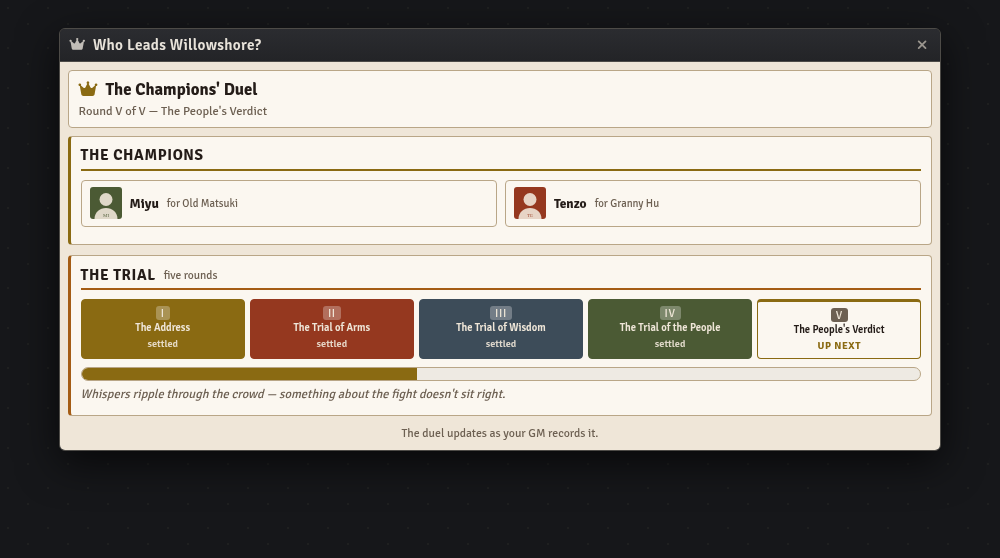
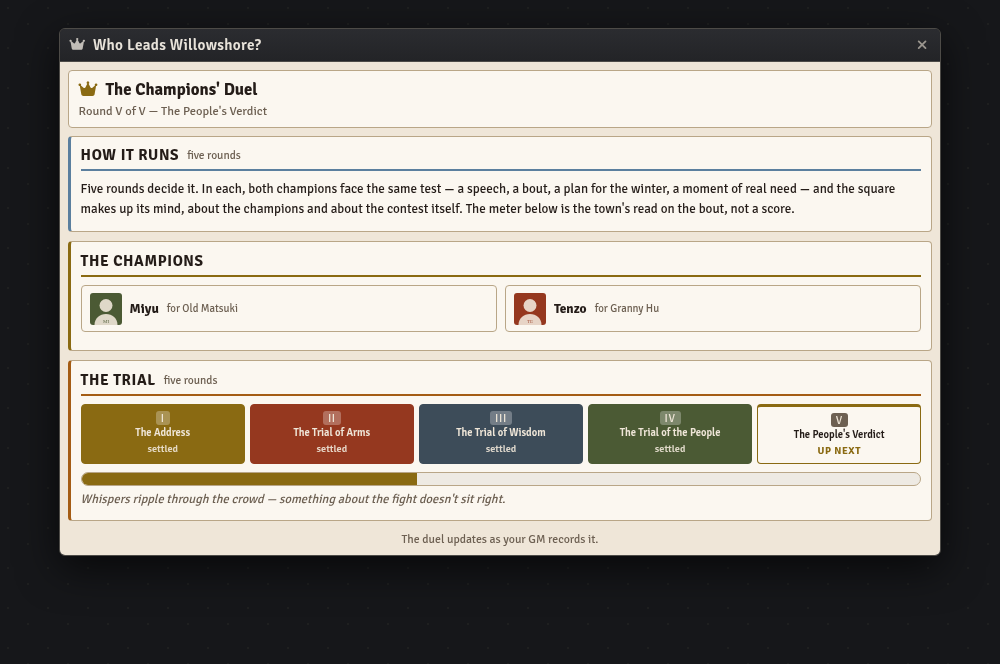
Who Leads Willowshore: spell out how a round actually runs
The round skills and the scoring came from different parts of the source
and read as two unrelated systems — worst in a thrown duel, where the
round's own skill and the sell are different rolls made by different
champions, and nothing said which one scores.

Both boards now open on a "how a round runs" panel. The GM's version
names who rolls what and maps each result to its delta (critical success
-1 Gorgeous through critical failure +2 Botched, with Blowout as a GM
call recorded in place of the sell's own result). The player's version
says the same in the crowd's voice, with a seat-specific "your part"
underneath: one roll of the round's skill in the Trial, or — for the
thrower — play the round out, then roll once to sell the loss, because
rolling to win is not their job.

Two leaks fixed along the way: the player roll card named Suspicion
outright, and the tally hint hardcoded Hu and Matsuki, so it read
backwards whenever the fix delivered to Hu.

Changed region(s): [[0.062, 0.0305, 0.961, 0.853]]

diff --git a/macros/season-of-ghosts/who-leads-willowshore-console.js b/macros/season-of-ghosts/who-leads-willowshore-console.js
@@ -86,6 +86,56 @@ const READALOUD = {
   crowd: "Give the crowd a voice — a roar, a gasp, a heckler (\"Songs won't man the walls!\"), a held breath before the bout — and visibly shift bodies toward whichever side is winning Favor. NPCs the party has helped should be in the crowd cheering. Let it breathe: this is a relationship and worldbuilding episode as much as a contest."
 };
 
+/* How a round actually runs. The two source documents give the round skills in
+   one place and the scoring in another, which reads as two unrelated systems —
+   especially in a thrown duel, where the round's own skill and the sell are
+   different rolls made by different champions. These spell the loop out once,
+   in the GM console and again (spoiler-free, seat-specific) on the player board.
+   The degree-of-success → Suspicion mapping is the natural reading of the
+   Worked Duel's five named deltas, not printed as a table in the document. */
+const HOWTO_GM = {
+  trial: [
+    ["Both champions roll.", "The round's listed skill, once each. A stand-in rolls about +9 in their strong field, +5 otherwise."],
+    ["Compare.", "Higher degree of success takes the round; on the same degree, higher total. Close enough to call it even is a tie."],
+    ["Record it below.", "Winner +2 Favor, +3 on a critical success, or +1 each on a tie — Round IV doubles all three. One button per round; clicking the lit one clears it."],
+    ["Round V.", "A closing word, not a contest. Roll only to break a tie in Favor: one opposed Diplomacy before the crowd."]
+  ],
+  thrown: [
+    ["{W} plays the round straight.", "The round's listed skill, rolled for real — {WE}'s side is not selling anything and does not roll to sell."],
+    ["{T} plays the part, then sells it.", "Describe the argument, the bout, the plan — then roll one Deception or Performance vs DC 18. That sell is the only roll that scores; {T} does not roll the round's own skill to try to win."],
+    ["Record the sell below.", "Critical success −1 Gorgeous · success +0 Clean · failure +1 Shaky · critical failure +2 Botched. One button per round."],
+    ["Blowout is a GM call, not a roll.", "If the round reads false because {W} looked too good rather than because the sell wobbled, record +1 Blowout in place of the sell's own result."],
+    ["Round V.", "The money shot — {T}'s last sell, with a bonus if Suspicion is low so far and a penalty if it's high."]
+  ]
+};
+
+/* The same loop in the crowd's voice, for the player board. No Favor number,
+   no Suspicion number, no band label — and the thrown duel's fix stays out of
+   the shared paragraph, since every player sees it. */
+const HOWTO_PLAYER = {
+  trial: {
+    crowd: "Five rounds decide it. In each, both champions face the same test — a speech, a bout, a plan for the winter, a moment of real need — and the town judges who did better. The crowd's favor swings a little each round, and whoever holds most of it after the fifth is acclaimed. The fourth round, the People, moves the crowd twice as far as any other.",
+    seat: [
+      "<b>One roll per round.</b> When your champion takes their turn at the test, roll the skill on the card below — that is your whole mechanical part of the round.",
+      "<b>III and IV are against a set DC</b>, printed on the button. <b>I and II are opposed</b> — you roll, the other champion rolls, and the better result takes the round, so no DC is shown.",
+      "<b>Round V is a closing word</b>, not a contest. You only roll if the town is dead split going into it."
+    ]
+  },
+  thrown: {
+    crowd: "Five rounds decide it. In each, both champions face the same test — a speech, a bout, a plan for the winter, a moment of real need — and the square makes up its mind, about the champions and about the contest itself. The meter below is the town's read on the bout, not a score.",
+    sell: [
+      "<b>Play the round as written</b> — argue, fight, offer your plan. Then roll <b>once</b>, from the card below, to make the loss look real: Deception or Performance against DC 18.",
+      "<b>That sell is the roll that counts.</b> Rolling the round's own skill to try to win is not your job this duel — in every round, the sell is what you roll.",
+      "<b>Beat the DC and the crowd buys it.</b> Miss and people start to talk; miss badly and they talk twice as loud. A critical success — a beautiful, agonizing near-miss — buys back doubt you have already earned.",
+      "<b>Round V is the fall itself</b>: one last sell, easier if the crowd has believed you so far, harder if it hasn't."
+    ],
+    straight: [
+      "<b>You play every round straight</b> — roll the skill on your card as though the outcome were still in doubt. III and IV are against a set DC; I and II are opposed, so no DC is shown.",
+      "<b>Round V has no roll for you.</b> The finale belongs to the other champion."
+    ]
+  }
+};
+
 const LEADUP = [
   { key: "courted", label: "Courted your elder to the Influence midpoint", effect: "+1 Favor to your side" },
   { key: "conceded", label: "7 Influence with the rival elder", effect: "they concede & step aside — end it without a duel" },
@@ -623,23 +673,24 @@ class WLRApp extends BaseApp {
     // Deception/Performance DC 18, the tally panel's own DC — through V's
     // money shot.
     const me = t.mySeat();
+    const myFaction = me ? (me.side === "north" ? ELDERS.north.faction : ELDERS.south.faction) : "";
+    const selling = !!me && !isTrial && me.side === t.throwerSide;
     const parseCheck = (c) => { const m = /^DC\s+(\d+)\s+(.+)$/.exec(String(c).trim()); return m ? { dc: Number(m[1]), skill: m[2] } : null; };
     const rollCard = (() => {
       if (!me || !next || finished) return "";
-      const faction = me.side === "north" ? ELDERS.north.faction : ELDERS.south.faction;
-      const selling = !isTrial && me.side === t.throwerSide;
+      const faction = myFaction;
       if (selling) {
         return `
         <div class="rollcard">
           <div class="rc-head">Round ${next.num} — ${esc(next.name)} <small>you fight for ${faction}</small></div>
-          <p class="rc-skills">Sell it — Deception or Performance</p>
+          <p class="rc-skills">Play the round as written, then roll <b>once</b> to sell the loss — Deception or Performance.</p>
           <div class="rc-btns">
             <button type="button" class="rollbtn" data-act="roll" data-k="${next.key}" data-skill="Deception" data-dc="18">
               <i class="fa-solid fa-dice-d20"></i> Roll Deception <b>DC 18</b></button>
             <button type="button" class="rollbtn" data-act="roll" data-k="${next.key}" data-skill="Performance" data-dc="18">
               <i class="fa-solid fa-dice-d20"></i> Roll Performance <b>DC 18</b></button>
           </div>
-          <p class="rc-note">${next.key === "r5" ? "The money shot — bonus if Suspicion is low, penalty if high." : "A clean sell keeps Suspicion down; a botch pushes it up."}</p>
+          <p class="rc-note">${next.key === "r5" ? "The fall itself — easier if the crowd has believed you so far, harder if it hasn't." : "Beat the DC and the crowd buys it; miss and people start to talk."}</p>
         </div>`;
       }
       // The thrown duel's non-thrower champion plays every round straight
@@ -663,12 +714,32 @@ class WLRApp extends BaseApp {
       </div>`;
     })();
 
+    // Prepended to the board: how the duel is actually run, in the crowd's
+    // voice, with the seated champion's own procedure spelled out underneath —
+    // which roll they make each round, and when. Drops away once it's decided.
+    const mySteps = !me ? null
+      : isTrial ? HOWTO_PLAYER.trial.seat
+      : selling ? HOWTO_PLAYER.thrown.sell
+      : HOWTO_PLAYER.thrown.straight;
+    const howto = showVerdict ? "" : `
+      <section class="panel howto" style="--tone:var(--ice)">
+        <h3>How it runs <small>five rounds</small></h3>
+        <p class="text">${isTrial ? HOWTO_PLAYER.trial.crowd : HOWTO_PLAYER.thrown.crowd}</p>
+        ${mySteps ? `
+        <div class="yourpart">
+          <div class="subhead"><i class="fa-solid fa-dice-d20"></i> Your part <span>${esc(me.name)} · ${esc(myFaction)}</span></div>
+          <ol class="howsteps">${mySteps.map(x => `<li>${x}</li>`).join("")}</ol>
+        </div>` : ""}
+      </section>`;
+
     return `${this.styles()}
       <div class="wlw player">
         <header class="ptop">
           <div class="ptitle"><i class="fa-solid fa-crown"></i> The Champions' Duel</div>
           <div class="pstatus">${status}</div>
         </header>
+
+        ${howto}
 
         <section class="panel" style="--tone:var(--gold)">
           <h3>The Champions</h3>
@@ -820,6 +891,14 @@ class WLRApp extends BaseApp {
     const t = this.t, s = t.s, f = t.favor, sus = t.suspicion, b = t.band;
     const total = Math.max(1, f.north + f.south);
     const pct = (n) => Math.round(n / total * 100);
+    const steps = s.mode === "trial" ? HOWTO_GM.trial : HOWTO_GM.thrown;
+    const howto = `
+      <section class="panel howto" style="--tone:var(--ice)">
+        <h3>How a round runs <small>${s.mode === "trial" ? "the same loop, five times" : "the sell is the only roll that scores"}</small></h3>
+        <ol class="howsteps">
+          ${steps.map(([head, body]) => `<li><b>${esc(t.fillThrown(head))}</b> ${esc(t.fillThrown(body))}</li>`).join("")}
+        </ol>
+      </section>`;
     const tally = `
       <section class="panel" style="--tone:var(--gold)">
         <h3>${s.mode === "trial" ? "Crowd Favor" : "Suspicion"} <small>${s.mode === "trial" ? "most Favor after Round V is acclaimed" : "0–3 Flawless · 4–6 Whispers · 7+ Exposed"}</small></h3>
@@ -834,10 +913,12 @@ class WLRApp extends BaseApp {
               <div class="tbar"><div class="tf s" style="width:${Math.min(100, sus / 10 * 100)}%"></div></div>
               <p class="note">${sus <= 3 ? "A convincing, hard-fought contest — nobody smells the fix." : sus <= 6 ? "A rumor of a fix starts to circulate." : "Exposed: worse than an honest concession. Hu looks a caught schemer, Matsuki's win is tainted, and the party is implicated."}</p>
             </div>`}
-        <p class="hint">${s.mode === "trial" ? "Round IV (the People) is worth double Favor. Near-ties give +1 to each side." : "Hu's champion sells each round with Deception/Performance (DC 18). A round sold clean is +0; shaky +1; botched +2; a gorgeous near-loss −1; Matsuki looking too good is a +1 blowout."}</p>
+        <p class="hint">${s.mode === "trial"
+          ? "Round IV (the People) is worth double Favor — its buttons already show the doubled values."
+          : `Suspicion is the whole score here: the winner is already settled, so nothing ${esc(ELDERS[t.thrownWinnerSide].name)}'s champion rolls changes it. Only how well ${esc(t.s[t.throwerSide].name)} sells the loss does.`}</p>
       </section>`;
 
-    return tally + ROUNDS.map(r => this.roundPanel(r, ro)).join("");
+    return howto + tally + ROUNDS.map(r => this.roundPanel(r, ro)).join("");
   }
 
   roundPanel(r, ro) {
@@ -981,6 +1062,19 @@ class WLRApp extends BaseApp {
       .wlw .tag.warn { border-color:var(--rust); color:var(--rust); }
       .wlw .beatnote { font-size:.75rem; line-height:1.45; color:var(--muted); margin:.1rem 0 .4rem 1.35rem;
                       padding-left:.5rem; border-left:1px solid var(--line); }
+
+      .wlw .howto .text { margin:.2rem 0 .1rem; }
+      .wlw .howsteps { margin:.3rem 0 0; padding-left:1.15rem; font-size:.79rem; line-height:1.5; }
+      .wlw .howsteps li { margin-bottom:.32rem; }
+      .wlw .howsteps li::marker { color:var(--ice); font-weight:700; }
+      .wlw .howsteps b { color:var(--ice); }
+      .wlw .yourpart { border:1px solid var(--line); border-radius:4px; padding:.4rem .5rem;
+                      margin-top:.5rem; background:var(--stripe); }
+      .wlw .yourpart .subhead { display:flex; align-items:center; gap:.4rem; font-size:.7rem;
+                               text-transform:uppercase; letter-spacing:.08em; font-weight:700;
+                               color:var(--ice); margin-bottom:.15rem; }
+      .wlw .yourpart .subhead span { margin-left:auto; font-weight:600; color:var(--muted);
+                                    text-transform:none; letter-spacing:0; }
 
       .wlw .topbar { display:flex; align-items:center; gap:.6rem; border:1px solid var(--line);
                     border-radius:4px; background:var(--card); padding:.45rem .6rem; margin-bottom:.5rem; flex-wrap:wrap; }

diff --git a/macros/season-of-ghosts/README.md b/macros/season-of-ghosts/README.md
@@ -229,6 +229,11 @@ Old Matsuki publicly challenges Granny Hu for the town's leadership, settled by 
 - **The thrown-duel variant** from *The Worked Duel*: the conceding elder and the fix's winner are both selectable, so the "does the winner know?" panel and every round's sell text flip to match; scored on a Suspicion track (0–3 Flawless / 4–6 Whispers / 7+ Exposed) with per-round sell deltas, a blowout toggle, and the money-shot finale
 - A **verdict tab** that declares the winner, applies the reversible write-through beats (heal the rift → Hope + Reputation, back the winner, or a bloodbath) to the Fall Downtime Tracker's pools, and marks the level-up to 3
 - Read-aloud for the challenge and the verdict posted to chat in-world; the cast (both elders, the stand-ins, Shinzo, and Heh's shadow) on the landing tab
+- A **"how a round runs" panel** at the top of both boards, because the round skills and the
+  scoring come from different parts of the source and read as unrelated systems: the GM's
+  version spells out who rolls what and how each result maps to a Favor or Suspicion delta;
+  the player's version says the same thing in the crowd's voice, with the seated champion's
+  own procedure — which roll they make, and when — underneath
 - A **spoiler-free player board**: grant OBSERVER permission and players track the champions and
   the five rounds the way the crowd sees them — a live crowd meter and each round's reaction
   (who the square cheers, who it roars for) instead of the mechanical Favor score, a
@@ -245,7 +250,15 @@ Old Matsuki publicly challenges Granny Hu for the town's leadership, settled by 
 ![The player board, mid-trial: the champions, the five rounds in the crowd's voice, and the crowd meter](../../screenshots/season-of-ghosts/who-leads-willowshore-console-player.png)
 
 Give the macro OBSERVER permission and every player can open a spoiler-free board that tracks the
-duel the way the crowd sees it: the two champions (and any third candidate), a five-round stepper
+duel the way the crowd sees it. It opens on **how it runs** — the five-round loop in the crowd's
+voice, and, for a player whose character holds one of the seats, a numbered "your part" telling
+them exactly which roll they make each round and when. In the Trial that's one roll of the round's
+own skill (set DC in III and IV, opposed in I and II, none in V unless the town is split). In a
+thrown duel the two seats get different instructions: the thrower is told to play the round out and
+then roll *once* to sell the loss, and that the sell — not the round's own skill — is the roll that
+counts, which is the thing the round-by-round text alone never makes clear; the other seat is told
+to play every round straight and that Round V isn't theirs. No Favor number, no Suspicion number,
+no band label appears in any of it. Below that sit the two champions (and any third candidate), a five-round stepper
 whose settled rounds read in the square's own voice — "the crowd cheers Northridge", "the crowd
 roars for Southbank", "the crowd applauds both" — and a crowd meter whose bar leans with the town
 and whose caption says how hard ("The crowd edges toward …" up to "The crowd roars for …") rather
